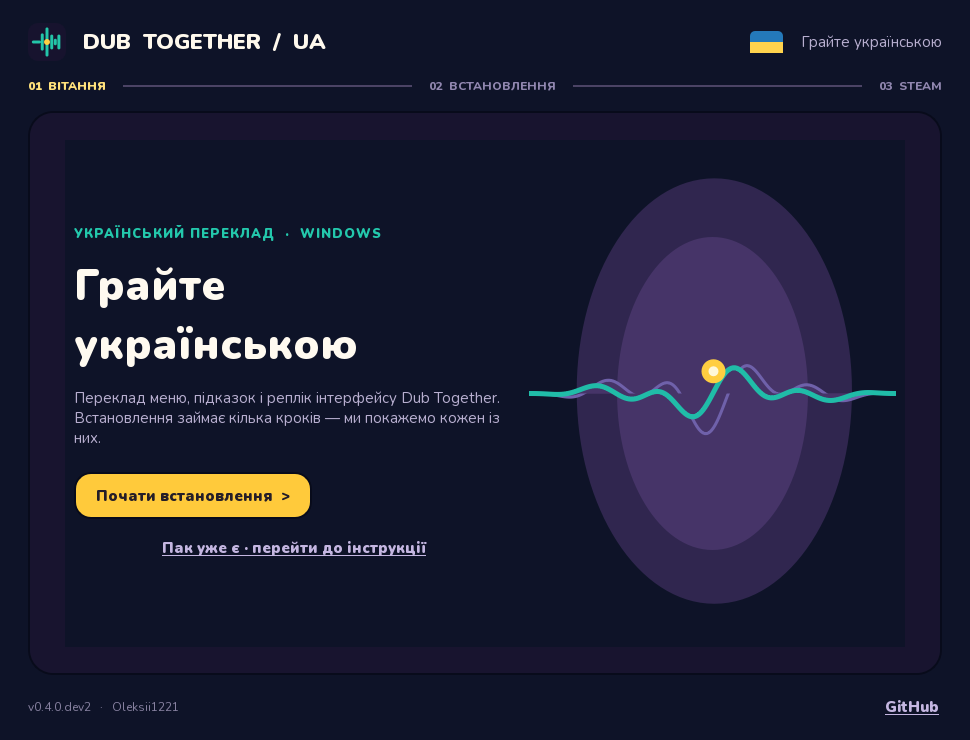
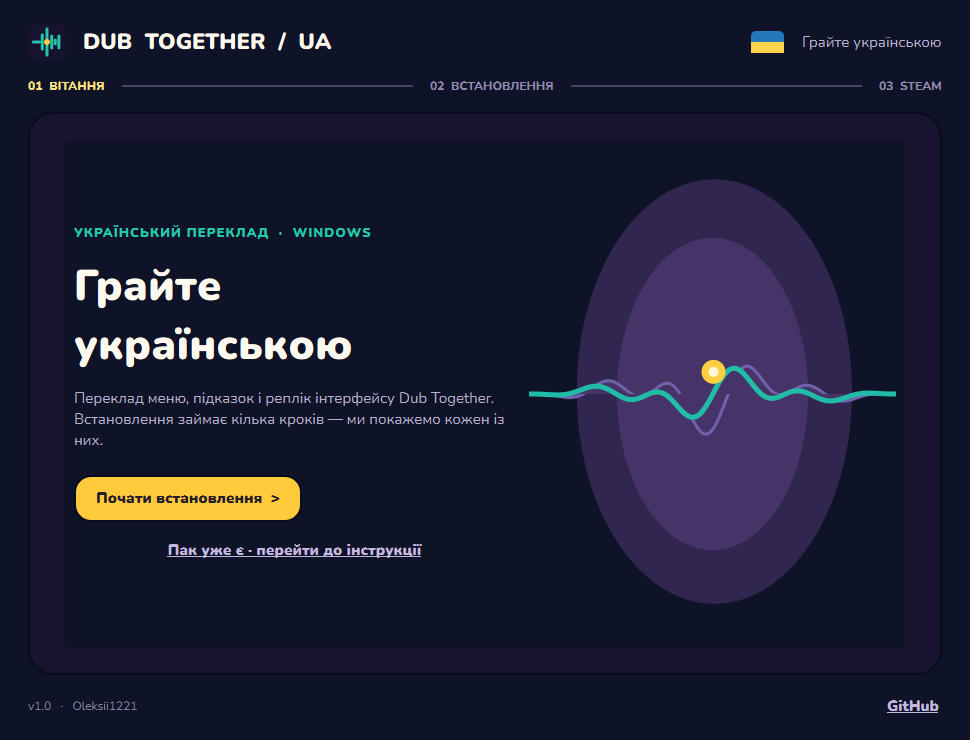
Prepare Windows 1.0 release and direct site download

diff --git a/docs/index.html b/docs/index.html
@@ -30,10 +30,10 @@
         <h1>Грайте<br><span>українською.</span></h1>
         <p class="lead">Меню, підказки й екрани озвучування Dub Together українською. Один інсталятор проведе тебе від першого кліку до потрібного рядка в Steam.</p>
         <div class="hero-actions">
-          <a id="download" class="button primary" href="https://github.com/Oleksii1221/DubTogether-UA/releases" data-umami-event="download-windows">Переглянути релізи <span aria-hidden="true">›</span></a>
+          <a id="download" class="button primary" href="https://github.com/Oleksii1221/DubTogether-UA/releases/latest/download/DubTogether-UA-Installer.exe" data-umami-event="download-windows">Встановити для Windows <span aria-hidden="true">›</span></a>
           <a class="button ghost" href="#how">Як встановити</a>
         </div>
-        <p class="release-status" id="release-status" role="status">Перевіряємо доступний реліз…</p>
+        <p class="release-status" id="release-status" role="status">Версія 1.0 · Windows</p>
       </div>
       <div class="hero-art" aria-hidden="true">
         <div class="disc disc-one"></div><div class="disc disc-two"></div>
@@ -71,7 +71,7 @@
     </section>
 
     <section class="section wrap final-cta">
-      <div class="cta-card"><p class="eyebrow">DUB TOGETHER / UA</p><h2>Готовий грати українською?</h2><p>Завантаж Windows інсталятор із GitHub Releases. Почни тоді, коли зручно зберегти гру.</p><div class="hero-actions"><a id="download-bottom" class="button primary" href="https://github.com/Oleksii1221/DubTogether-UA/releases" data-umami-event="download-windows-bottom">Переглянути релізи <span aria-hidden="true">›</span></a><a class="button ghost" href="https://github.com/Oleksii1221/DubTogether-UA" target="_blank" rel="noopener">Дивитись код</a></div><p id="download-count" class="micro"></p></div>
+      <div class="cta-card"><p class="eyebrow">DUB TOGETHER / UA</p><h2>Готовий грати українською?</h2><p>Завантаж Windows інсталятор із GitHub Releases. Почни тоді, коли зручно зберегти гру.</p><div class="hero-actions"><a id="download-bottom" class="button primary" href="https://github.com/Oleksii1221/DubTogether-UA/releases/latest/download/DubTogether-UA-Installer.exe" data-umami-event="download-windows-bottom">Встановити для Windows <span aria-hidden="true">›</span></a><a class="button ghost" href="https://github.com/Oleksii1221/DubTogether-UA" target="_blank" rel="noopener">Дивитись код</a></div><p id="download-count" class="micro"></p></div>
     </section>
   </main>
 

diff --git a/docs/app.js b/docs/app.js
@@ -1,7 +1,6 @@
 (() => {
   "use strict";
   const repository = "Oleksii1221/DubTogether-UA";
-  const releaseUrl = `https://github.com/${repository}/releases`;
   const buttons = [document.getElementById("download"), document.getElementById("download-bottom")];
   const status = document.getElementById("release-status");
   const count = document.getElementById("download-count");
@@ -15,14 +14,12 @@
     if (!asset || !asset.browser_download_url) throw new Error("No Windows asset");
     for (const link of buttons) {
       link.href = asset.browser_download_url;
-      link.firstChild.textContent = "Завантажити для Windows ";
+      link.firstChild.textContent = "Встановити для Windows ";
     }
     status.textContent = `${release.tag_name} · Windows · ${(asset.size / 1048576).toFixed(1)} МБ`;
     count.textContent = `Завантажень цього файлу на GitHub: ${asset.download_count.toLocaleString("uk-UA")}`;
   }).catch(() => {
-    for (const link of buttons) link.href = releaseUrl;
-    status.textContent = "Перший реліз готується. Слідкуй за оновленнями на GitHub.";
-    count.textContent = "Завантаження з’явиться тут після першого релізу.";
+    count.textContent = "Статистика завантажень тимчасово недоступна.";
   });
 
   const analytics = window.DUBUA_ANALYTICS || {};

diff --git a/src/dubua/__init__.py b/src/dubua/__init__.py
@@ -1,4 +1,4 @@
 """Windows installer for the Dub Together Ukrainian localization."""
 
-__version__ = "0.4.0.dev3"
+__version__ = "1.0"
 __author__ = "Oleksii1221"

diff --git a/README.md b/README.md
@@ -8,16 +8,14 @@
 Один EXE, покрокове встановлення, зрозуміла інструкція для параметрів запуску.
 
 [Сайт](https://oleksii1221.github.io/DubTogether-UA/) ·
-[Завантажити реліз](https://github.com/Oleksii1221/DubTogether-UA/releases) ·
+[Встановити для Windows](https://github.com/Oleksii1221/DubTogether-UA/releases/latest/download/DubTogether-UA-Installer.exe) ·
 [Повідомити про проблему](https://github.com/Oleksii1221/DubTogether-UA/issues)
 
 </div>
 
 ![Вітальний екран інсталятора](docs/assets/app-welcome.png)
 
-> **Статус:** розробка у гілці `dev`. Стабільні релізи з'являться у `master`
-> після перевірки. Поки реліз не опубліковано, сайт показує це прямо, без
-> кнопки, що веде на неіснуючий EXE.
+> **Версія 1.0:** стабільний реліз у `master`. Подальша розробка — у `dev`.
 
 ## Що робить інсталятор
 
@@ -33,7 +31,7 @@
 
 ## Встановлення для гравця
 
-1. Завантаж `DubTogether-UA-Installer.exe` на сторінці [Releases](https://github.com/Oleksii1221/DubTogether-UA/releases).
+1. [Завантаж `DubTogether-UA-Installer.exe`](https://github.com/Oleksii1221/DubTogether-UA/releases/latest/download/DubTogether-UA-Installer.exe) для Windows.
 2. Відкрий EXE, збережи свій прогрес у грі, натисни **«Почати встановлення»**.
 3. Прочитай попередження та підтвердь. Дочекайся завершення.
 4. Натисни **«Копіювати»** біля повного рядка `--main-pack "..."`.
@@ -85,10 +83,8 @@ $env:PYTHONPATH = 'src'
 
 ## Сайт і статистика
 
-Сайт лежить у `docs/` і публікується через GitHub Pages з **dev /docs**.
-Після схвалення стабільного релізу джерело Pages можна перемкнути на
-**master /docs** без автоматичного пушу до `master`. Кнопка
-завантаження читає останній GitHub Release і посилається на файл
+Сайт лежить у `docs/` і публікується через GitHub Pages. Кнопка
+веде прямо на останній GitHub Release і файл
 `DubTogether-UA-Installer.exe`; кількість завантажень бере з GitHub API.
 
 Для Umami додай публічні `scriptUrl` і `websiteId` у [`docs/config.js`](docs/config.js).
@@ -99,7 +95,7 @@ $env:PYTHONPATH = 'src'
 ## Гілки, участь і ліцензії
 
 - `dev` — розробка, Windows збірка в Actions як артефакт.
-- `master` — перевірені релізи; автоматичного пушу або релізу немає.
+- `master` — перевірені релізи; оновлюється вручну після перевірки.
 
 Пропонуй виправлення перекладу через Pull Request у `dev`, бажано зі знімком
 екрана й поясненням контексту. Ніколи не додавай до репозиторію повний PCK,
